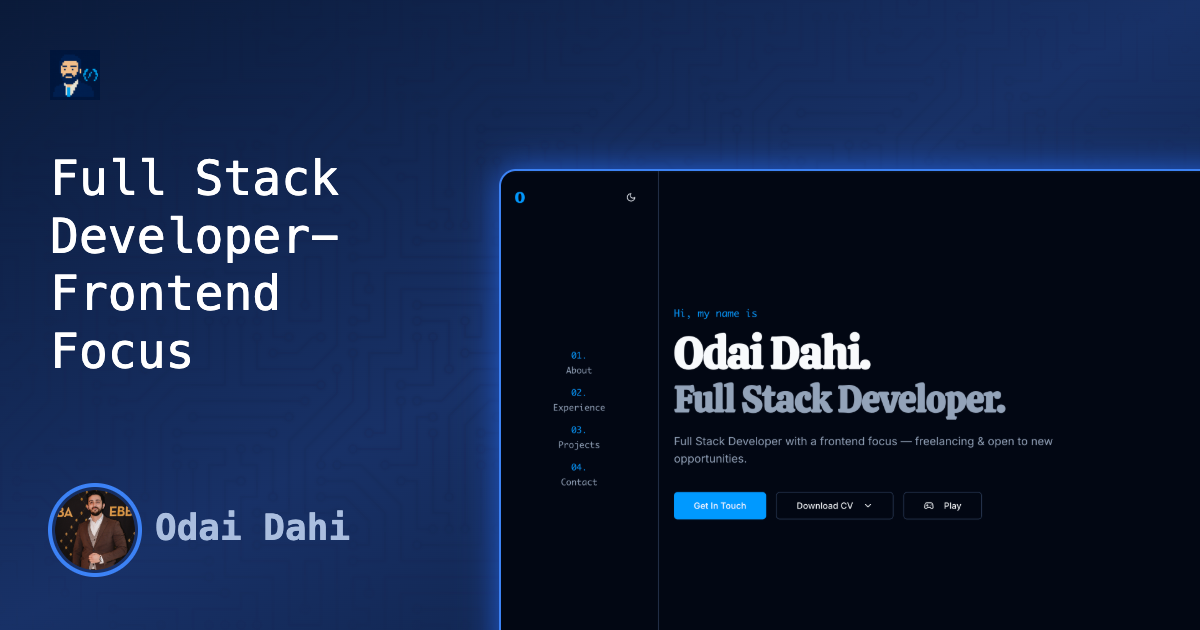
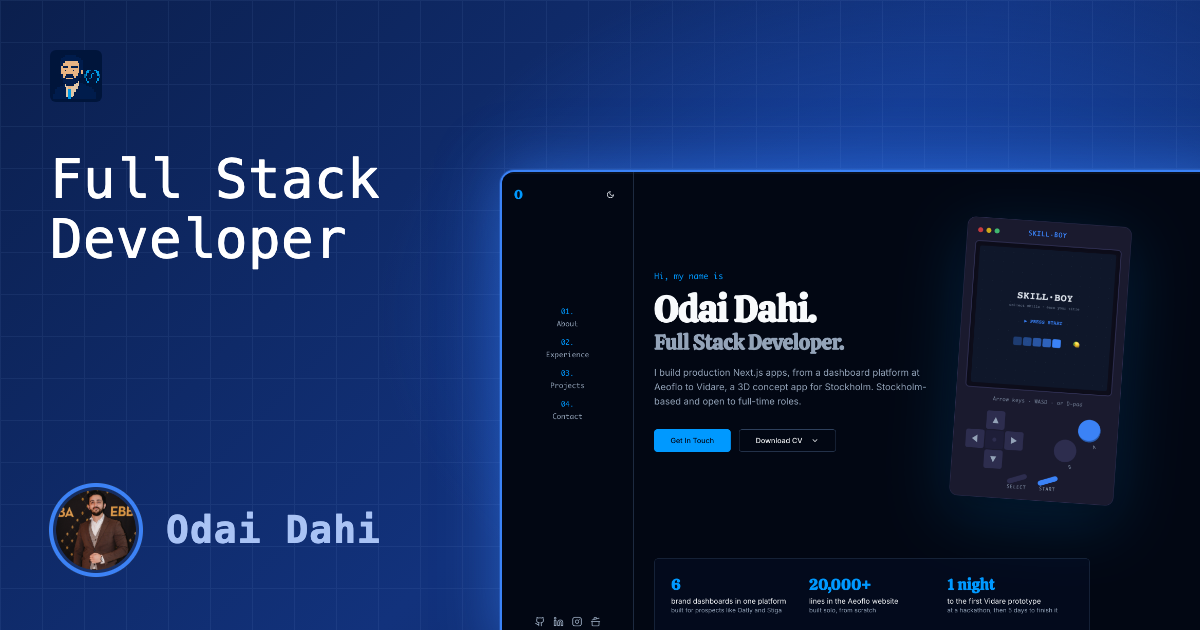
content: fix the About typo, drop "freelancing", refresh the preview image
- About began "Hey, I'm Odai a Full Stack Developer" (a dash went
  missing); now "Odai, a Full Stack Developer".
- The meta, Open Graph and Twitter descriptions still said
  "Freelancing and open to work"; they now say Stockholm and open to
  full-time roles, matching the rest of the site.
- og-image.png was an old screenshot that said "Frontend Focus" and
  "freelancing & open to new opportunities". Regenerated with the same
  layout from the current hero (542 KB -> 384 KB).

diff --git a/src/app/layout.tsx b/src/app/layout.tsx
@@ -35,7 +35,7 @@ export const viewport: Viewport = {
 
 export const metadata: Metadata = {
   title: 'Odai Dahi | Full Stack Developer',
-  description: 'Full Stack Developer — building production apps with Next.js, TypeScript, and AI integrations. Freelancing and open to work.',
+  description: 'Full Stack Developer in Stockholm, building production apps with Next.js, TypeScript and AI integrations. Open to full-time roles.',
   keywords: [
     'full stack developer',
     'frontend developer',
@@ -62,7 +62,7 @@ export const metadata: Metadata = {
     locale: 'en_US',
     url: 'https://www.odaidh.dev',
     title: 'Odai Dahi | Full Stack Developer',
-    description: 'Full Stack Developer — Next.js, TypeScript, Node.js, and AI integrations. Freelancing & open to work.',
+    description: 'Full Stack Developer in Stockholm. Next.js, TypeScript, Node.js and AI integrations. Open to full-time roles.',
     siteName: 'Odai Dahi Portfolio',
     images: [
       {
@@ -76,7 +76,7 @@ export const metadata: Metadata = {
   twitter: {
     card: 'summary_large_image',
     title: 'Odai Dahi | Full Stack Developer',
-    description: 'Full Stack Developer — Next.js, TypeScript, Node.js, and AI integrations.',
+    description: 'Full Stack Developer in Stockholm. Next.js, TypeScript, Node.js and AI integrations.',
     images: ['/og-image.png'],
   },
   icons: {

diff --git a/src/content/portfolio.md b/src/content/portfolio.md
@@ -482,7 +482,7 @@ projects:
       - Deployed via **GitHub Pages**
 ---
 
-Hey, I’m Odai a Full Stack Developer with hands-on experience building real products for startups and teams.
+Hey, I’m Odai, a Full Stack Developer with hands-on experience building real products for startups and teams.
 
 I’ve worked across the stack and across very different users: an AI governance platform at **Art25**, where I also built the website for the **NIARR** institute, a multi-client analytics dashboard platform at **Aeoflo**, a sports-tech platform at **Sportly**, a website redesign for European heritage railways at **FEDECRAIL**, and projects like **Vidare**, a 3D concept app built around Swedish travel law, plus **iOS apps** and **AI-powered multiplayer games**. The range is the point: designing for FEDECRAIL's mostly 55+ audience is a different problem from building a GRC platform or analytics dashboards, and I enjoy all of it.
 
